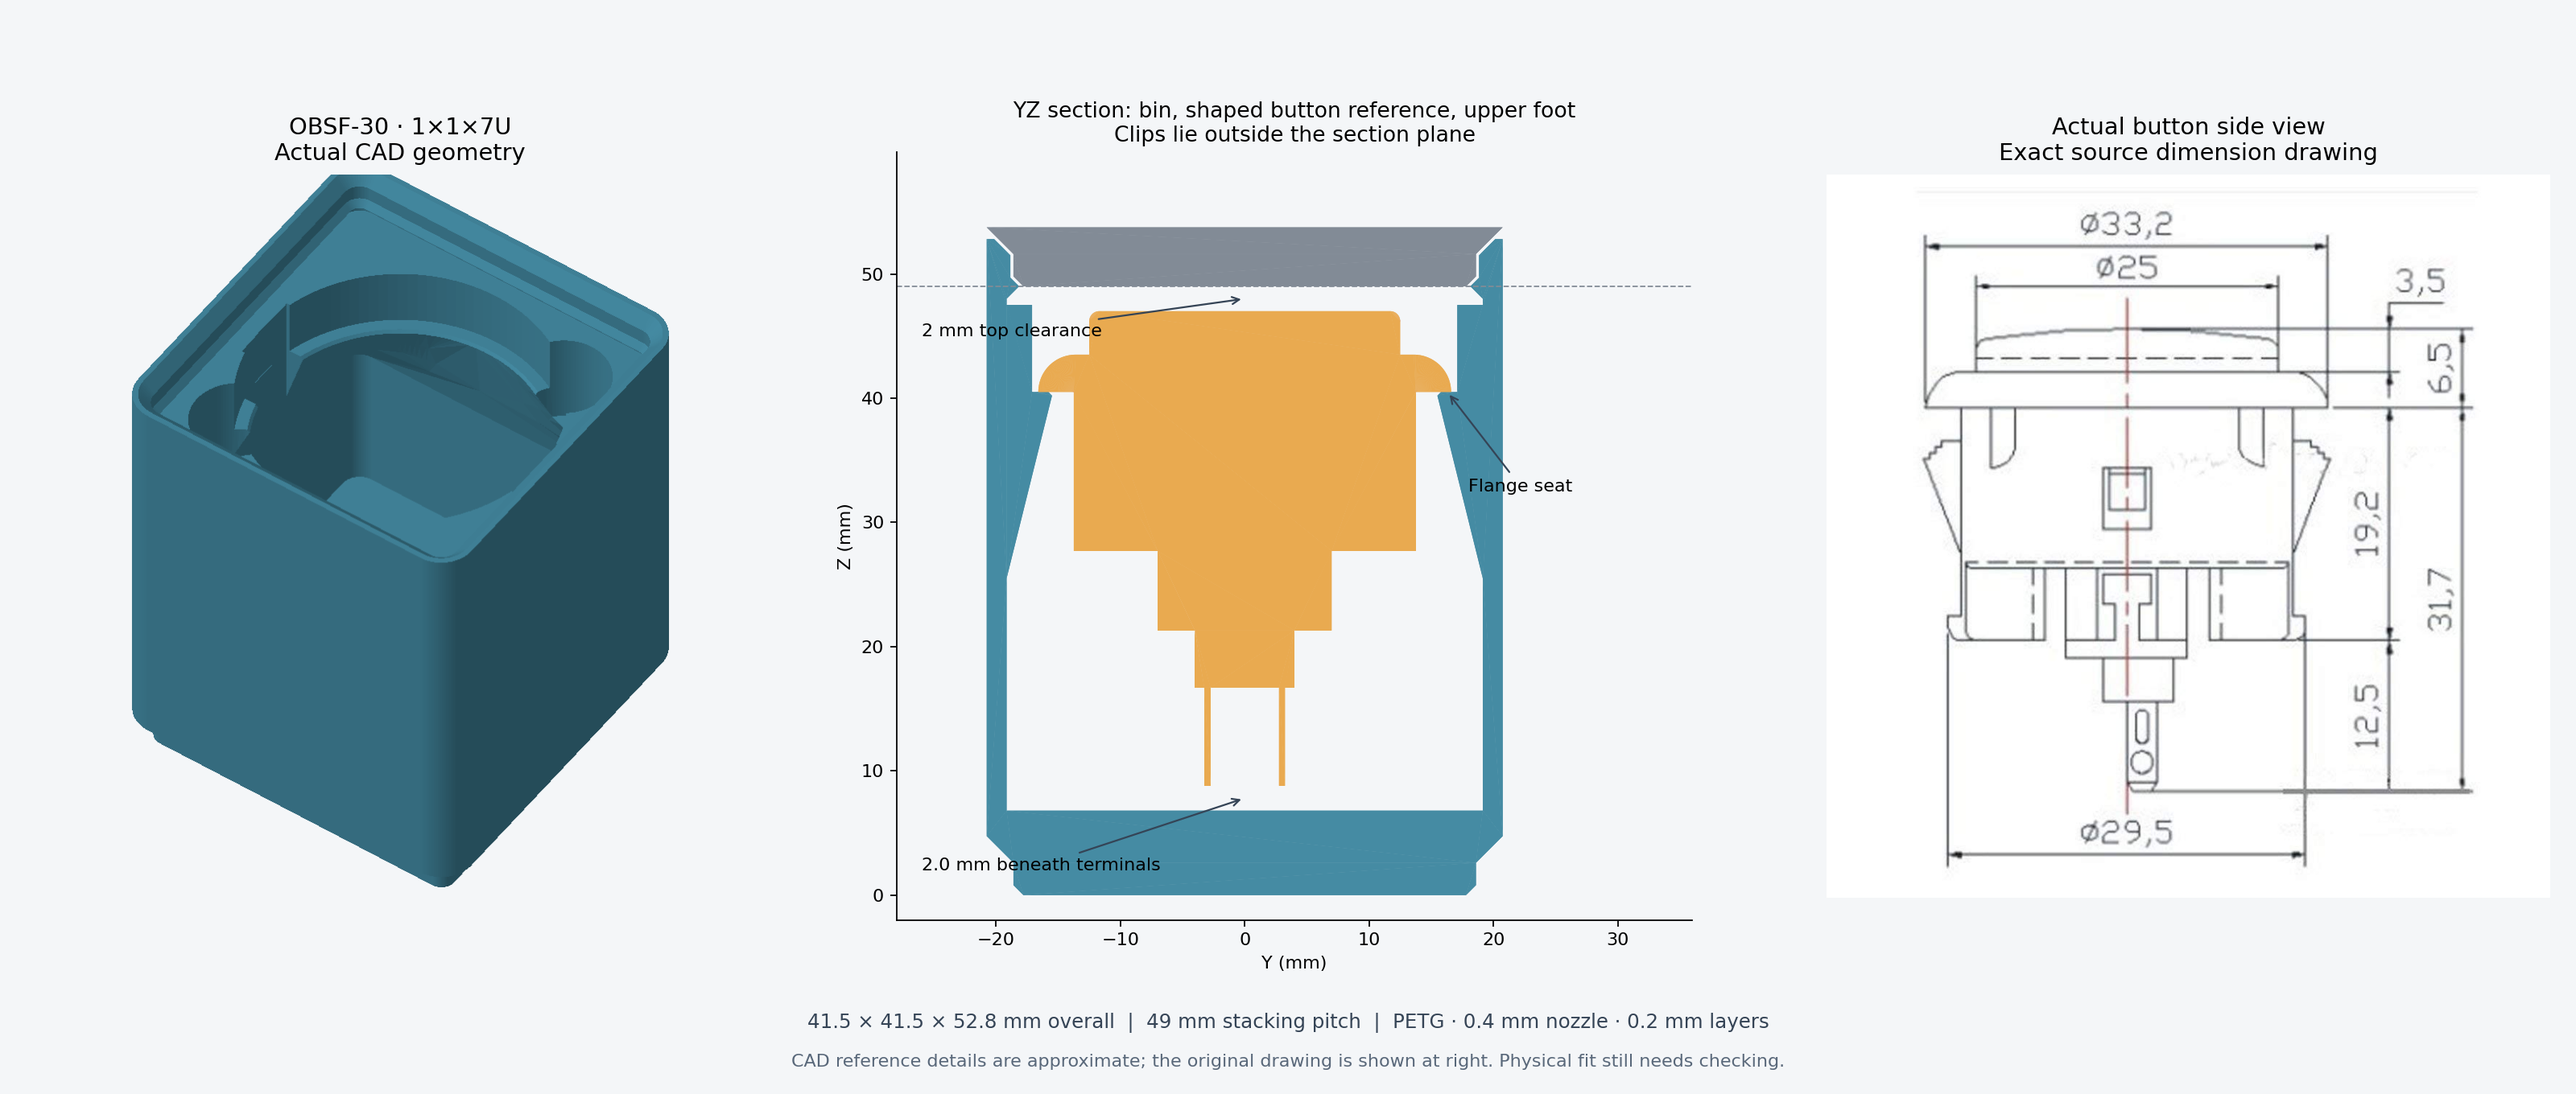
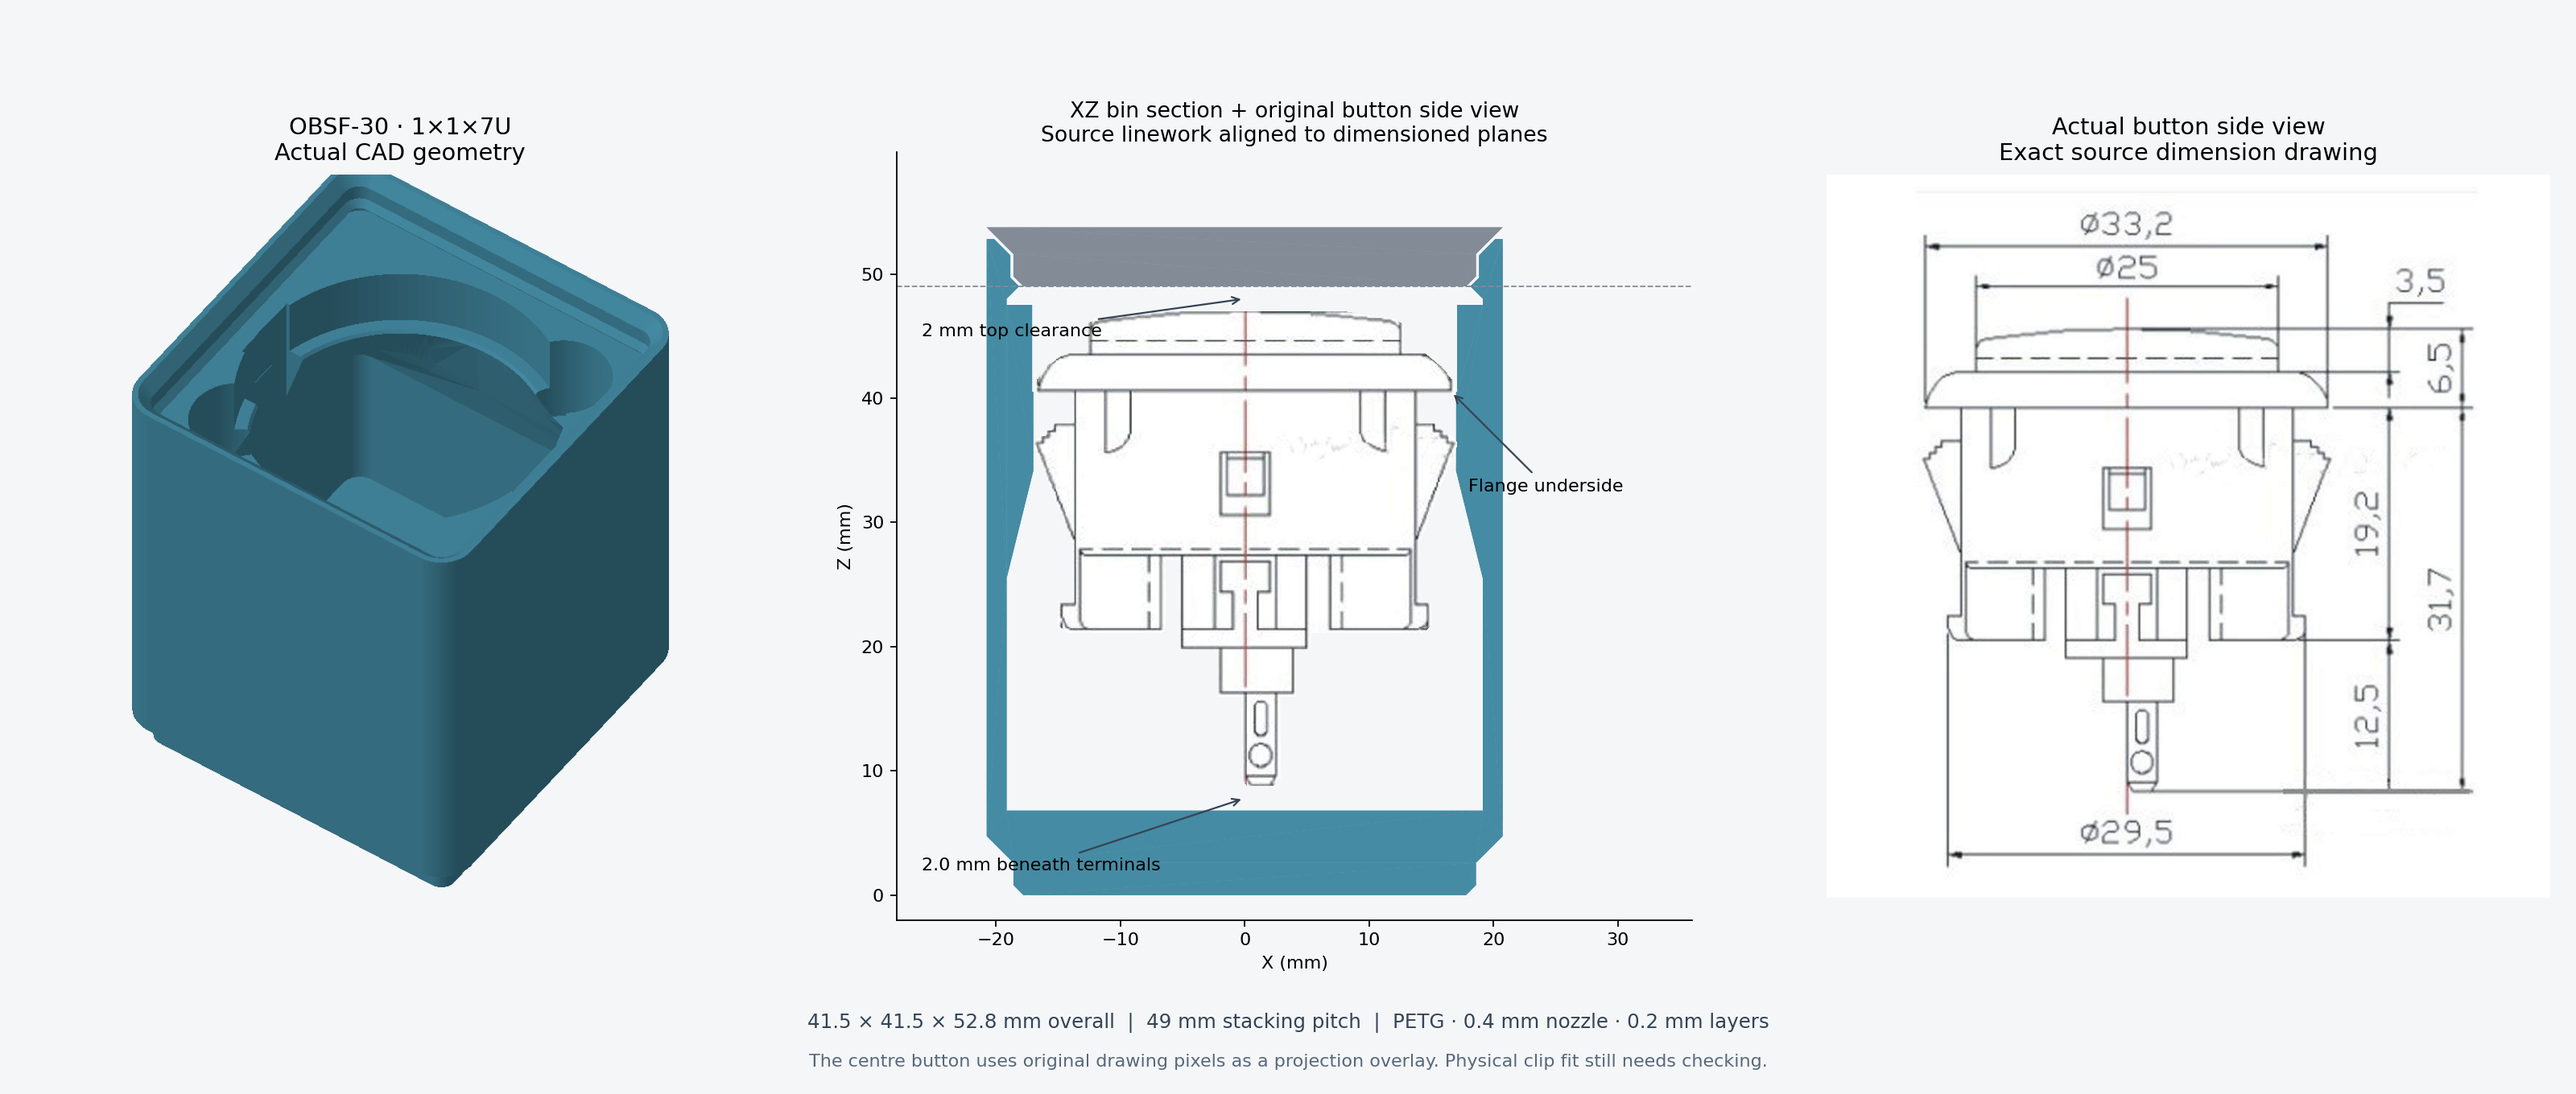
Use original button side-view linework inside bin preview

diff --git a/preview.py b/preview.py
@@ -12,6 +12,7 @@ import matplotlib
 matplotlib.use("Agg")
 import matplotlib.pyplot as plt
 from matplotlib.collections import PolyCollection
+from matplotlib.path import Path as PlotPath
 import numpy as np
 
 from button_bin import Parameters, button_reference, foot
@@ -68,12 +69,49 @@ def rasterize(shape: cq.Shape, size: int = 900) -> np.ndarray:
 
 
 def draw_section(ax, shape: cq.Shape, color: str) -> None:
-    # YZ slice avoids the X-facing clip reliefs and exposes the flange support.
-    slab = cq.Solid.makeBox(0.02, 60, shape.BoundingBox().zmax + 1,
-                            cq.Vector(-0.01, -30, 0))
+    # XZ slice is aligned with the opposed clip reliefs and source side view.
+    slab = cq.Solid.makeBox(60, 0.02, shape.BoundingBox().zmax + 1,
+                            cq.Vector(-30, -0.01, 0))
     vertices, triangles = shape.intersect(slab).tessellate(0.04, 0.1)
-    polygons = [[(vertices[i].y, vertices[i].z) for i in triangle] for triangle in triangles]
+    polygons = [[(vertices[i].x, vertices[i].z) for i in triangle] for triangle in triangles]
     ax.add_collection(PolyCollection(polygons, facecolors=color, edgecolors="none"))
+
+
+def draw_source_side_view(ax, p: Parameters) -> None:
+    """Plot original source pixels, clipped to the button outline, at true datums.
+
+    This is a side-view projection overlay, not a manufactured 3D solid. Pixel
+    anchors are taken from docs/obsf30-dimensions.jpg. Piecewise vertical mapping
+    aligns all four dimensioned planes despite minor scan distortion.
+    """
+    drawing = Path(__file__).resolve().parent / "docs" / "obsf30-dimensions.jpg"
+    original = plt.imread(drawing)
+    # Generous outline follows the source ink while excluding dimension lines.
+    outline = PlotPath([
+        (133, 325), (133, 310), (146, 289), (174, 270), (202, 270),
+        (202, 230), (216, 222), (285, 213), (414, 209), (545, 213),
+        (610, 222), (628, 230), (628, 270), (656, 270), (679, 289),
+        (696, 310), (696, 326), (649, 326), (649, 365), (670, 365),
+        (670, 373), (681, 373), (681, 381), (691, 381), (701, 393),
+        (649, 528), (649, 607), (665, 607), (665, 638), (655, 648),
+        (502, 648), (502, 671), (483, 671), (483, 733), (462, 733),
+        (462, 842), (451, 855), (417, 855), (411, 844), (411, 733),
+        (379, 733), (379, 671), (328, 671), (328, 549), (307, 549),
+        (307, 648), (175, 648), (163, 638), (163, 607), (182, 607),
+        (182, 528), (129, 393), (138, 383), (146, 383), (146, 375),
+        (155, 375), (155, 365), (182, 365), (182, 326), (133, 325),
+    ], closed=True)
+    x0, x1, y0, y1 = 127, 704, 209, 856
+    yy, xx = np.mgrid[y0:y1, x0:x1]
+    mask = outline.contains_points(np.column_stack((xx.ravel(), yy.ravel())))
+    rgba = np.empty((y1 - y0, x1 - x0, 4), dtype=float)
+    rgba[:, :, :3] = original[y0:y1, x0:x1, :3] / 255.0
+    rgba[:, :, 3] = mask.reshape(yy.shape).astype(float)
+    x_edges = (np.arange(x0, x1 + 1) - 0.5 - 414) * p.flange_diameter / (692 - 136)
+    z_edges = np.interp(np.arange(y0, y1 + 1) - 0.5,
+                        [213, 324, 645, 853],
+                        [p.top_z, p.seat_z, p.switch_bottom_z, p.tip_z])
+    ax.pcolormesh(x_edges, z_edges, rgba, shading="flat", rasterized=True, zorder=2)
 
 
 def render_preview(model: cq.Shape, p: Parameters, path: Path) -> None:
@@ -86,7 +124,7 @@ def render_preview(model: cq.Shape, p: Parameters, path: Path) -> None:
     ax.set_title(f"OBSF-30 · 1×1×{p.height_u}U\nActual CAD geometry", fontsize=13, pad=8)
     section.set_facecolor("#f4f6f8")
     draw_section(section, model, "#458ba3")
-    draw_section(section, button_reference(p), "#e9aa50")
+    draw_source_side_view(section, p)
     draw_section(section, foot().translate((0, 0, p.nominal_z)), "#828b96")
     section.axhline(p.nominal_z, color="#828b96", linestyle="--", linewidth=0.8)
     section.annotate(f"{p.top_clearance:g} mm top clearance",
@@ -96,12 +134,12 @@ def render_preview(model: cq.Shape, p: Parameters, path: Path) -> None:
     section.annotate(f"{p.tip_z - p.floor_z:.1f} mm beneath terminals",
                      xy=(0, (p.tip_z + p.floor_z) / 2), xytext=(-26, 2), fontsize=10,
                      arrowprops={"arrowstyle": "->", "color": "#354456"})
-    section.annotate("Flange seat", xy=(16.3, p.seat_z), xytext=(18, p.seat_z - 8),
+    section.annotate("Flange underside", xy=(16.6, p.seat_z), xytext=(18, p.seat_z - 8),
                      fontsize=10, arrowprops={"arrowstyle": "->", "color": "#354456"})
-    section.set(xlim=(-28, 36), ylim=(-2, p.total_z + 7), xlabel="Y (mm)", ylabel="Z (mm)")
+    section.set(xlim=(-28, 36), ylim=(-2, p.total_z + 7), xlabel="X (mm)", ylabel="Z (mm)")
     section.set_aspect("equal")
     section.spines[["top", "right"]].set_visible(False)
-    section.set_title("YZ section: bin, shaped button reference, upper foot\nClips lie outside the section plane", fontsize=12)
+    section.set_title("XZ bin section + original button side view\nSource linework aligned to dimensioned planes", fontsize=12)
     # Show the exact source alongside the section, including the real clip
     # silhouette and dimension lines that cannot be inferred from a YZ slice.
     drawing = Path(__file__).resolve().parent / "docs" / "obsf30-dimensions.jpg"
@@ -112,7 +150,7 @@ def render_preview(model: cq.Shape, p: Parameters, path: Path) -> None:
              f"41.5 × 41.5 × {p.total_z:g} mm overall  |  "
              f"{p.nominal_z:g} mm stacking pitch  |  PETG · 0.4 mm nozzle · 0.2 mm layers",
              ha="center", fontsize=11, color="#354456")
-    fig.text(0.5, 0.025, "CAD reference details are approximate; the original drawing is shown at right. Physical fit still needs checking.",
+    fig.text(0.5, 0.025, "The centre button uses original drawing pixels as a projection overlay. Physical clip fit still needs checking.",
              ha="center", fontsize=10, color="#59687a")
     fig.subplots_adjust(left=0.015, right=0.99, bottom=0.15, top=0.87, wspace=0.18)
     fig.savefig(path, dpi=160, facecolor=fig.get_facecolor())

diff --git a/README.md b/README.md
@@ -12,6 +12,11 @@ the full bin. OBSF-24 models and inserts for existing bins are planned.
 
 ![CAD preview and section](output/preview.png)
 
+The middle panel overlays the original button side-view linework on the bin's
+XZ section, aligned to the button top, flange underside, lower housing plane,
+and terminal tips. This is a side-view projection for visual comparison;
+physical clip fit still needs checking. The full source drawing appears at right.
+
 ## Files
 
 - [Saved design plan](PLAN.md)
